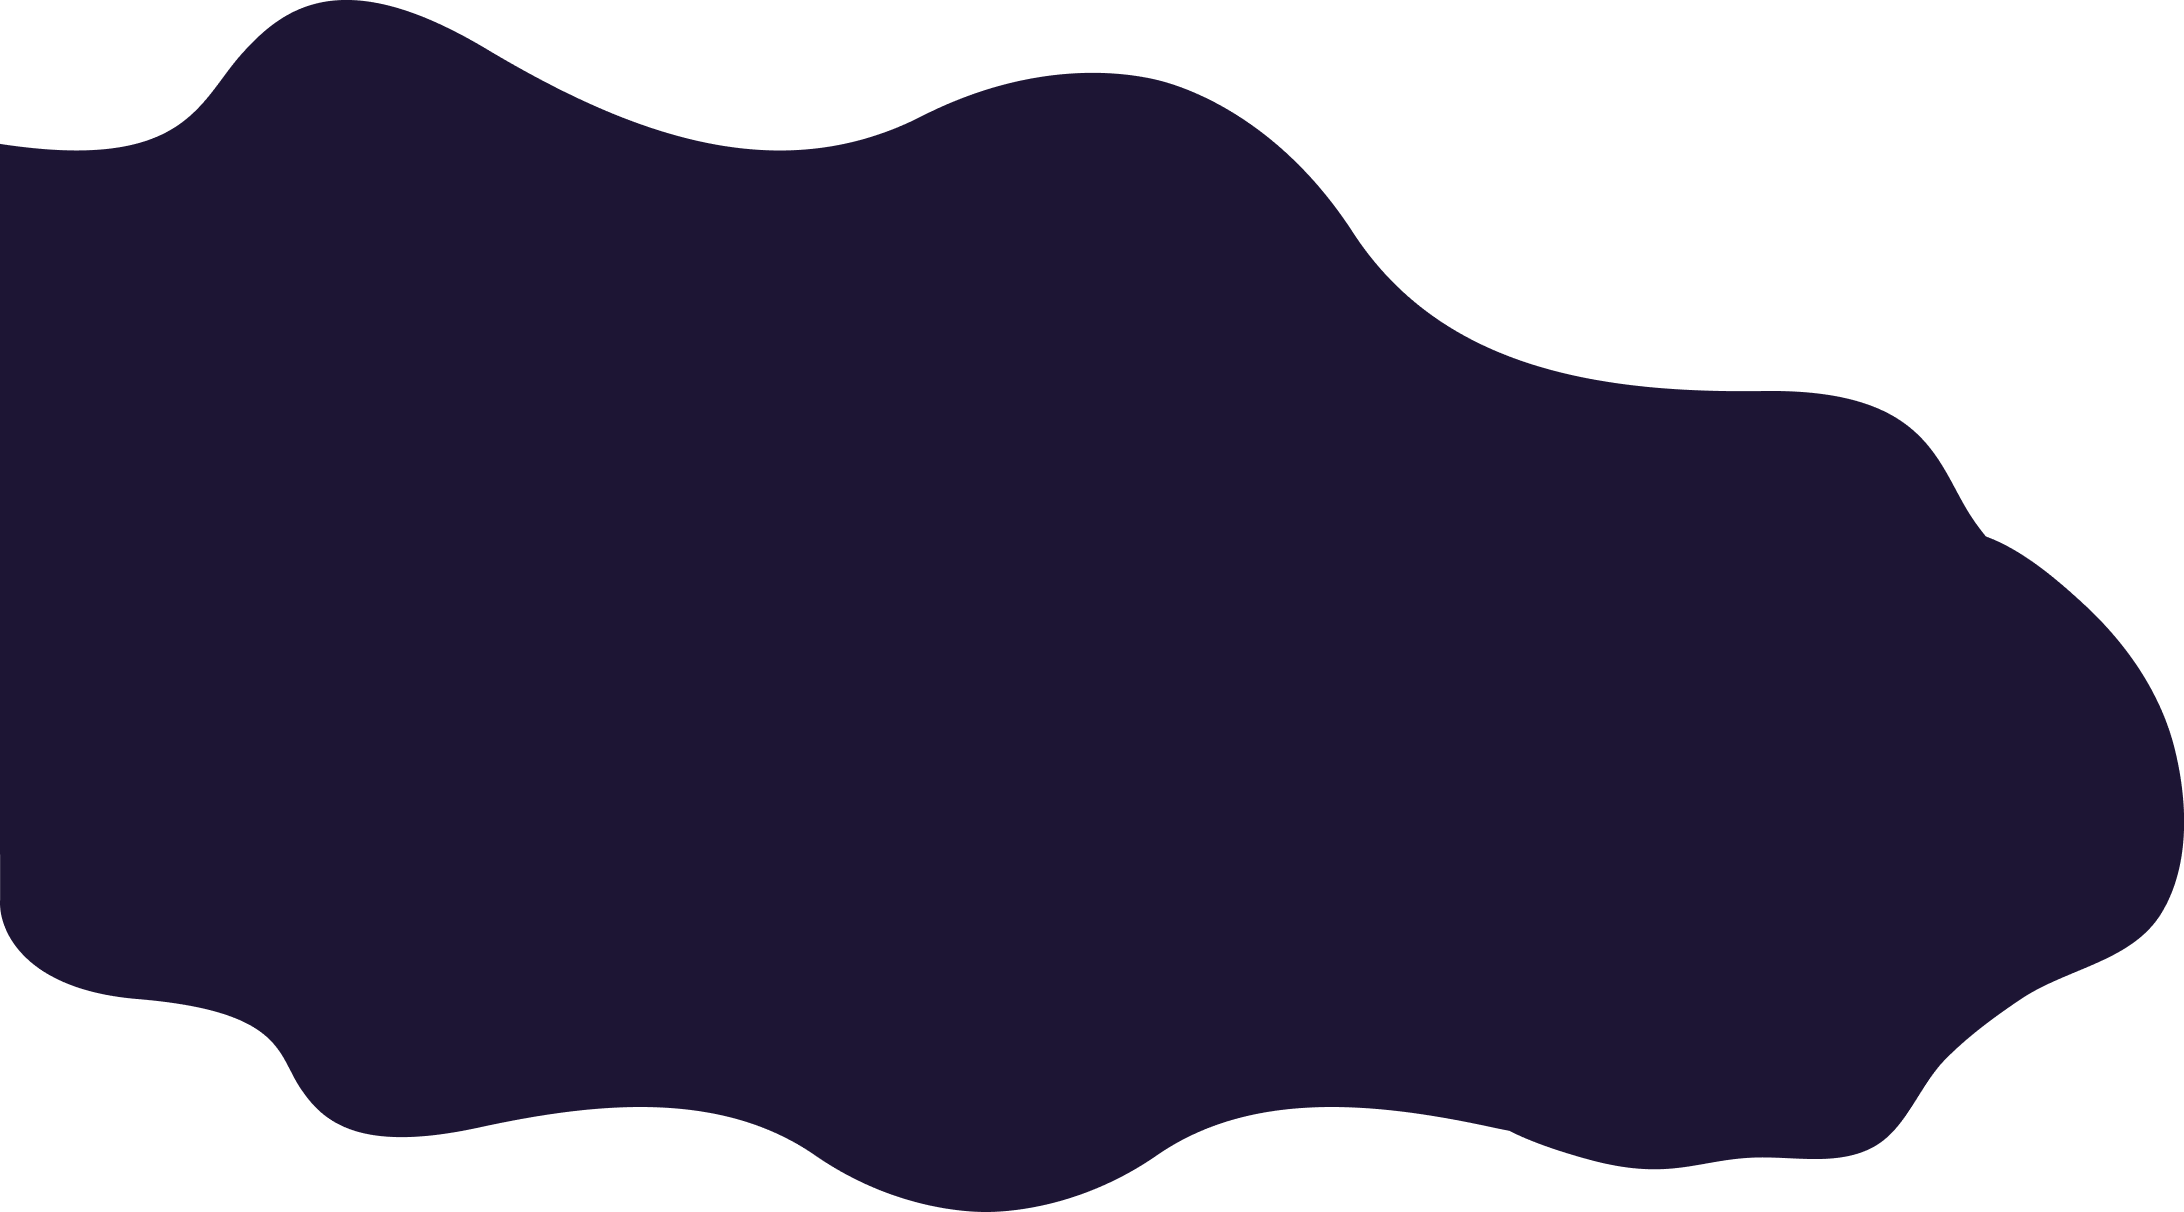
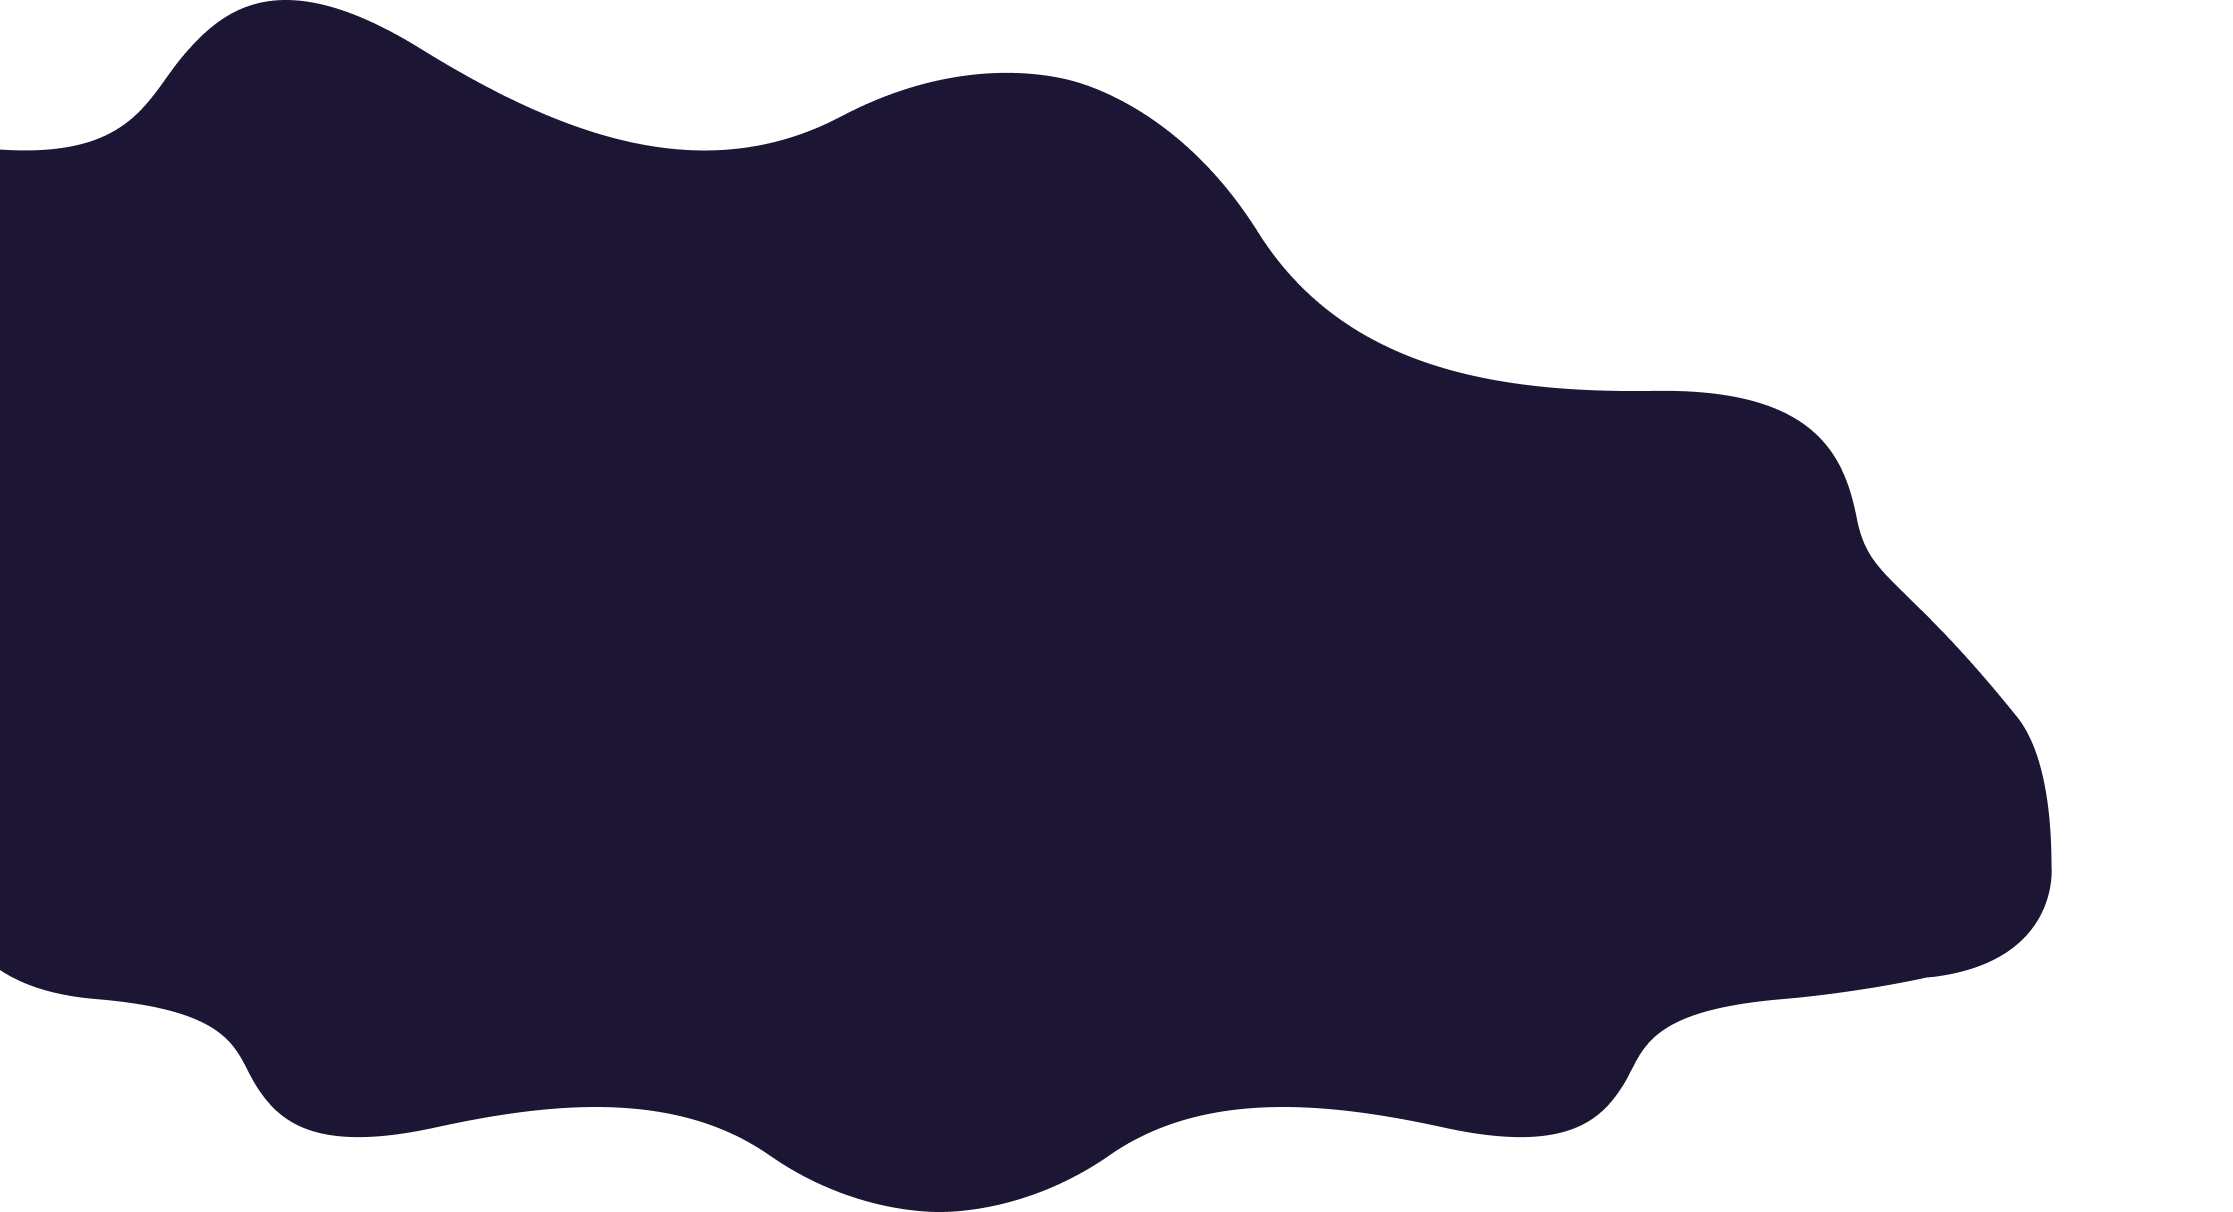
What makes us different?

diff --git a/css/style.css b/css/style.css
@@ -18,7 +18,7 @@ body{
     position: relative;
 }
 
-section, p, h2 {
+section, p, h2, h3 {
     margin: 0;
     padding: 0;
 }
@@ -210,13 +210,25 @@ header ul li a:hover {
     background-position: right;
 }
 
-/* For Holders/Creator */
+/* BG-Cards */
 
 .bg-cards{
     position: absolute;
-    top: 115vh;
+    top: 135vh;
     left: 0;
-    z-index: -1; 
+    width: 100vw;
+    height: 100%;
+    max-height: 1212px;
+    z-index: -1;
+    background-image: url(../img/cards/bg-cards.png);
+    background-repeat: no-repeat;
+}
+
+/* Cards */
+
+.cards{
+    margin-top: 105px;
+    margin-bottom: 140px;
 }
 
 .cards .container{
@@ -280,14 +292,43 @@ header ul li a:hover {
     text-align: center;
 }
 
-/* BG-Cards */
+/* What makes us different? */
 
-.bg-cards{
-    width: 100vw;
-    height: 100%;
-    max-height: 1212px;
-    z-index: -1;
-    background-image: url(../img/cards/bg-cards.png);
-    background-repeat: no-repeat;
+.us-different .container {
+    display: flex;
+    justify-content: flex-start;
 }
 
+.box_us-dif{
+    display: flex;
+    justify-content: space-between;
+    max-width: 1100px;
+    width: 100%;
+}
+
+.logo-box-what img{
+    max-width: 55px;
+}
+
+.us-different h3{
+    color: var(--white);
+    font-family: var(--font-fam);
+    font-weight: var(--font-w-medium);
+    font-size: 48px;
+    line-height: 54px;
+    max-width: 356px;
+}
+
+.us-different .description, .up-descrip{
+    color: var(--white);
+    margin-top: 15px;
+    margin-bottom: 15px;
+}
+
+.up-descrip{
+    font-family: var(--font-fam);
+    font-weight: var(--font-w-medium);
+    font-size: 16px;
+    line-height: 20px;
+    opacity: 0.6;
+}

diff --git a/index.html b/index.html
@@ -82,6 +82,27 @@
             </div>
         </div>
     </section>
+    <section class="us-different">
+        <div class="container">
+            <div class="box_us-dif">
+                <div class="logo-box-what">
+                    <img src="./img/logo/logo.svg" alt="logo">
+                </div>
+                <h3>What makes us different?</h3>
+                <div class="text-box">
+                    <p class="up-descrip">
+                        We would only launch tokens with the express permission of the creators. 
+                    </p>
+                    <p class="description">
+                        There are several thousand celebrities and creators on twitter, tiktok, Instagram and YouTube with followings in the millions who we would be actively engaging before we go viral. 
+                    </p>
+                    <p class="description">
+                        There are several thousand celebrities and creators on twitter, tiktok, Instagram and YouTube with followings in the millions who we would be actively engaging before we go viral. 
+                    </p>
+                </div>
+            </div>
+        </div>
+    </section>
     <div class="bg-cards"></div>
 </body>
 </html>
